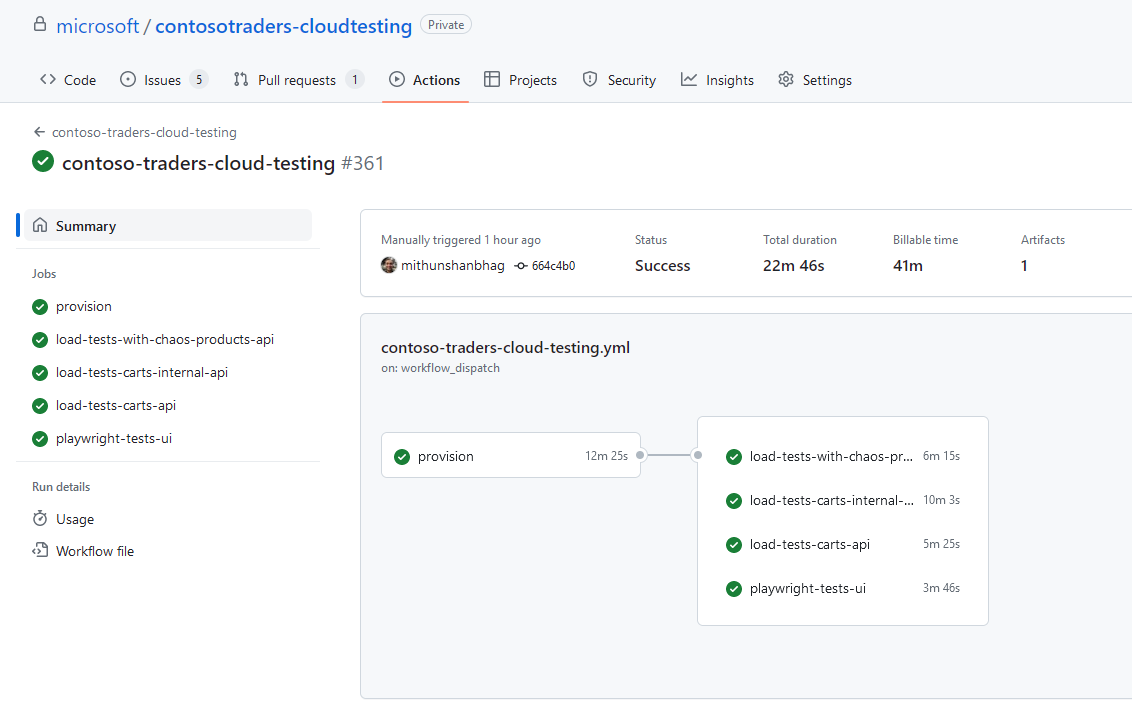
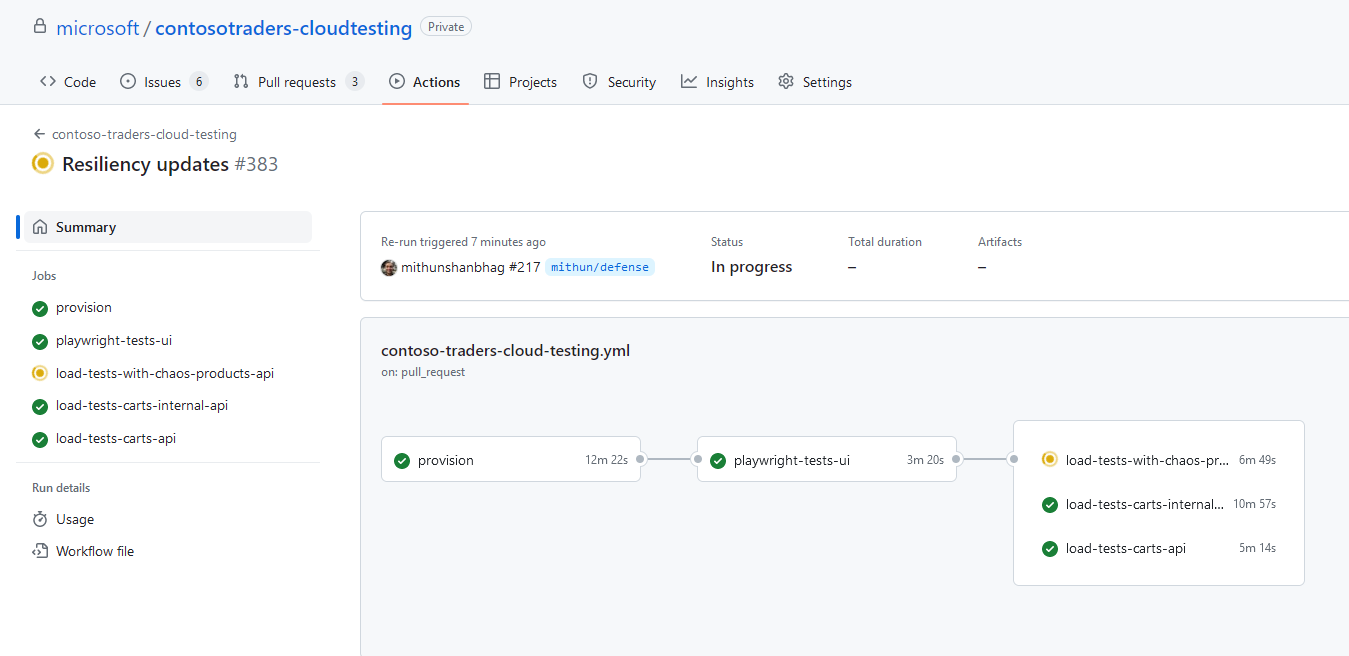
Goody bag of resiliency updates (#217)
* Resiliency updates

* Run playwright tests before load tests

* [skip ci] update workflow screenshot

* [skip ci] ensure KV's RG name is used in lookup

* update dependencies

* update job dependency/order

* update dependency order

* more variations of AD consent dialog

* updated screenshot

* resolve sporadic issues with chaos studio resource

* comment-out code causing false positives in test

diff --git a/src/ContosoTraders.Ui.Website/tests/auth.setup.ts b/src/ContosoTraders.Ui.Website/tests/auth.setup.ts
@@ -1,4 +1,4 @@
-import { expect, test as setup } from '@playwright/test';
+import { test as setup } from '@playwright/test';
 
 const authFile = '.auth/user.json';
 
@@ -17,10 +17,14 @@ setup('authenticate', async ({ browser }) => {
     await dialog.getByRole('button', { name: 'Sign in' }).click();
     // Do not stay signed in
     await dialog.getByRole('button', { name: 'No' }).click();
-    // If app permissions prompt is shown, click "Yes"
-    if (await dialog.getByRole('heading', { name: 'Let this app access your info?' }).isVisible()) {
-        await dialog.getByRole('button', { name: 'Yes' }).click();
-    }
+    // Note: Uncomment only after investigation.
+    // // If app permissions prompt is shown, click "Yes"
+    // if (await dialog.getByRole('heading', { name: 'Let this app access your info?' }).isVisible()) {
+    //     await dialog.getByRole('button', { name: 'Yes' }).click();
+    // }
+    // if (await dialog.getByRole('heading', { name: 'Permissions requested' }).isVisible()) {
+    //     await dialog.getByRole('button', { name: 'Accept' }).click();
+    // }
     // Save auth state to file
     await page.context().storageState({ path: authFile });
 }); 

diff --git a/docs/deployment-instructions.md b/docs/deployment-instructions.md
@@ -117,6 +117,8 @@ Here are some common problems that you may encounter during deployment:
 
 2. Other intermittent errors: Should you encounter any of [these intermittent errors](https://github.com/microsoft/ContosoTraders/issues?q=is%3Aissue+is%3Aopen+label%3Adevops) in the github workflow, please re-run the failed jobs (it'll will pass on retry). We're working to fix these soon.
 
+3. There is a [known issue](https://github.com/Azure/login/issues/249) where the Azure login github action fails if the service principal's `clientSecret` begins with `-` (hyphen). If you encounter this, please regenerate a new secret, update the repository secret in your github fork, and restart the workflow.
+
 ## Explore Demo Scenarios
 
 For further learning, you can run through some of the demo scripts listed below:
